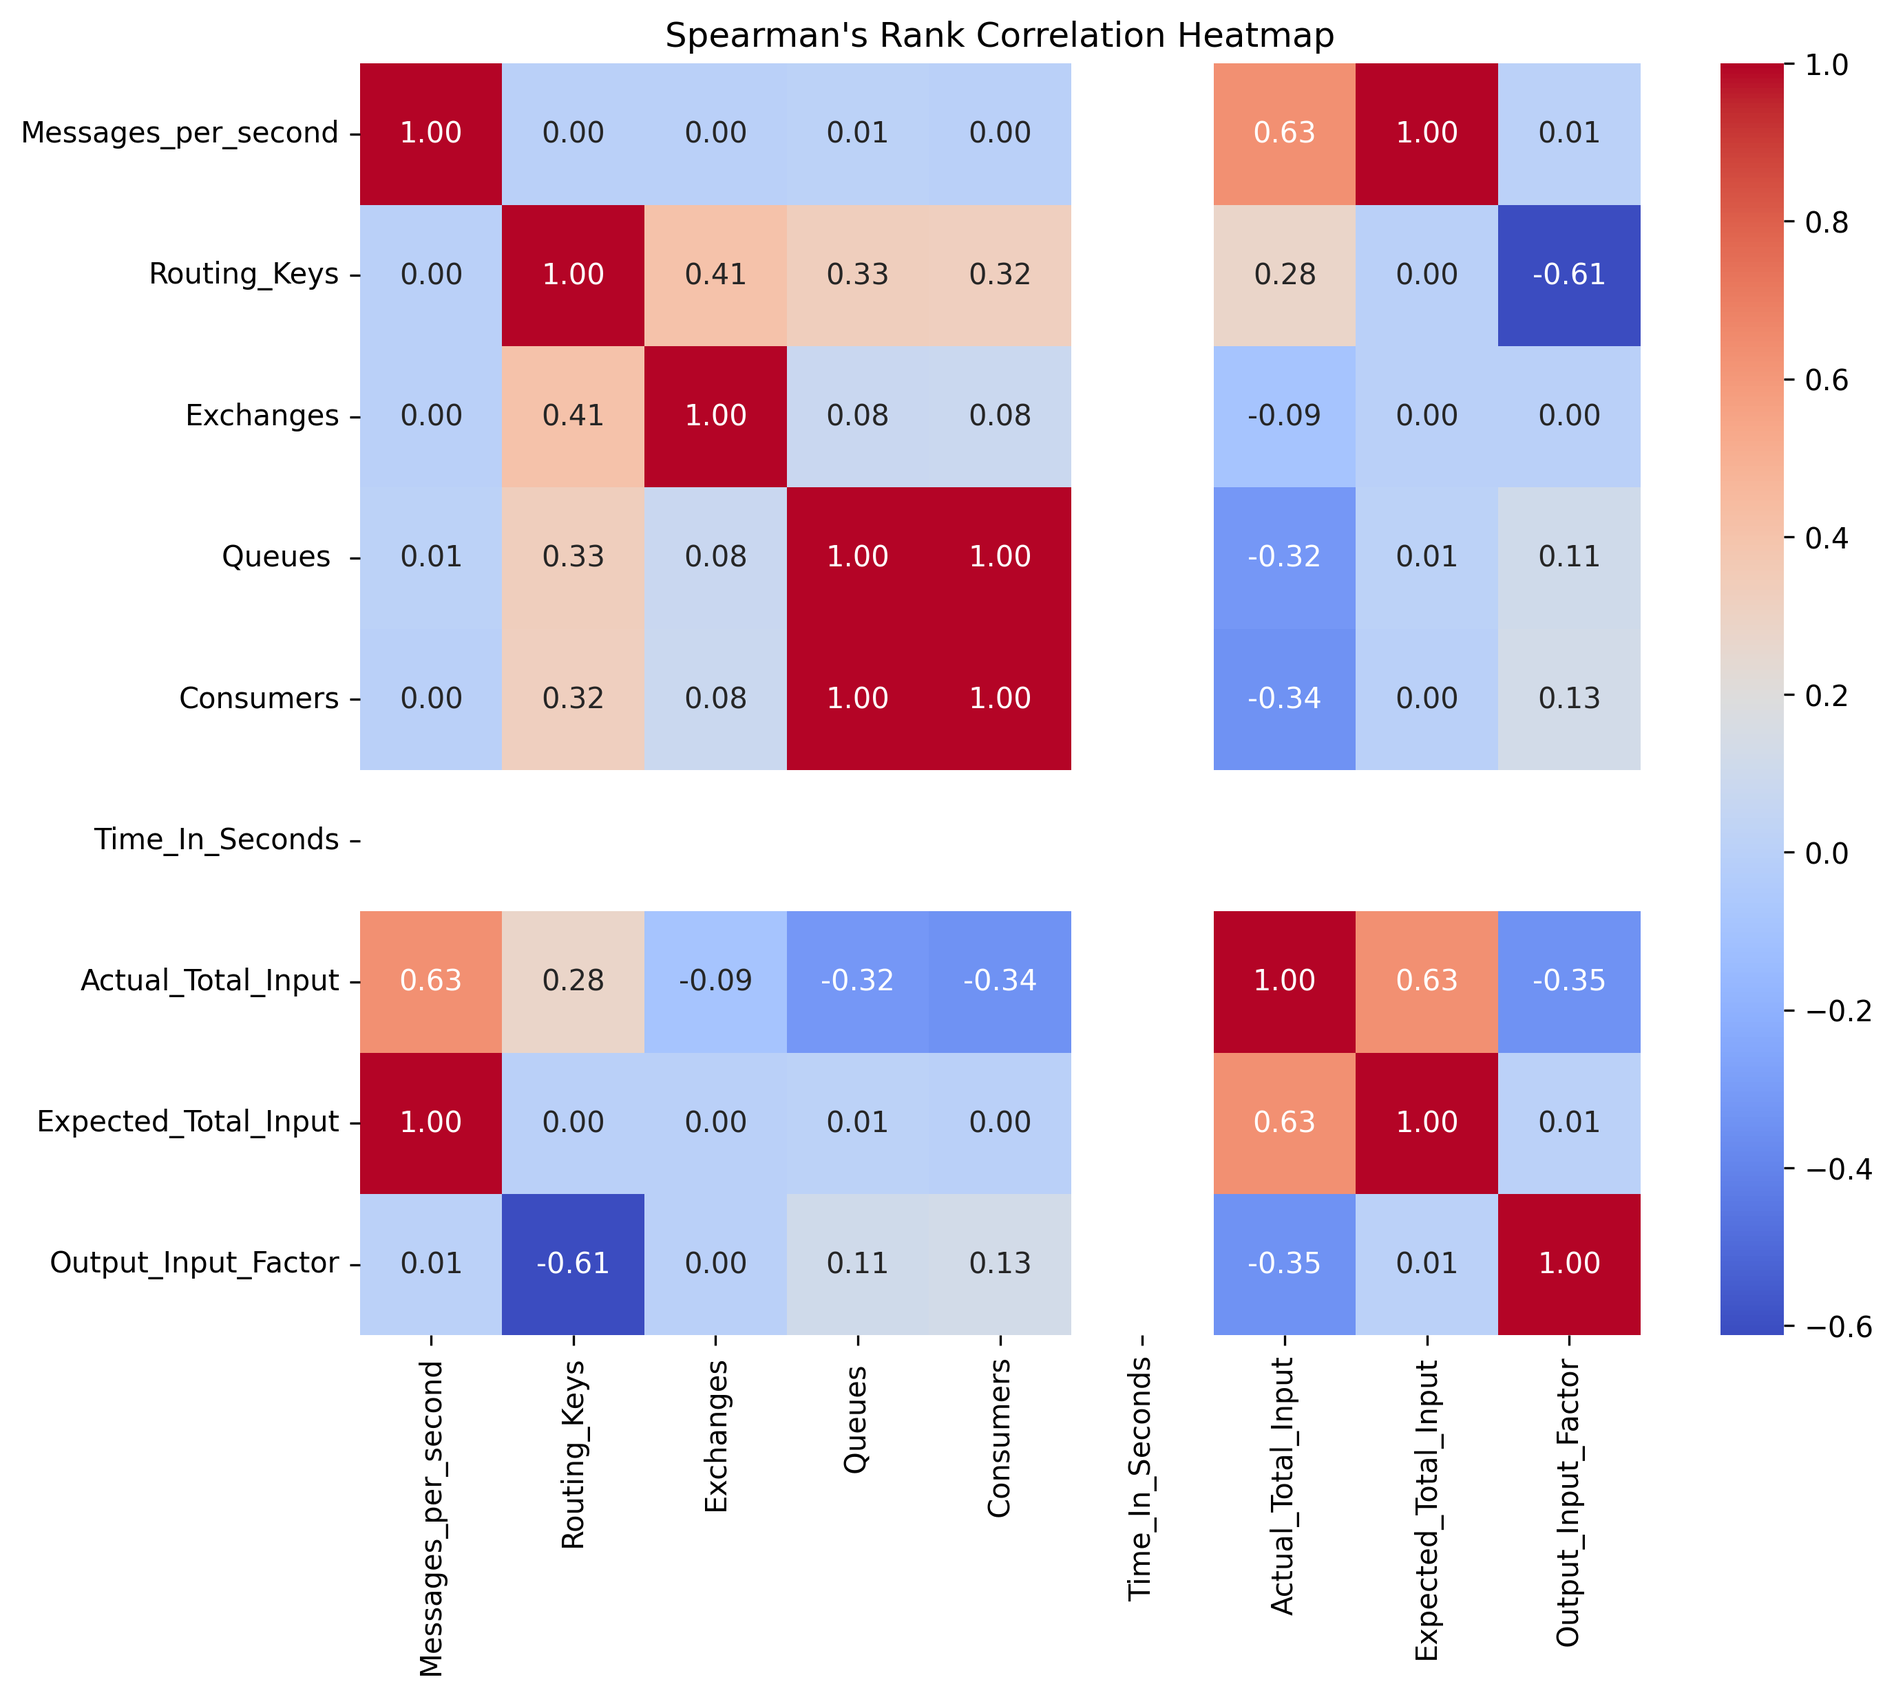
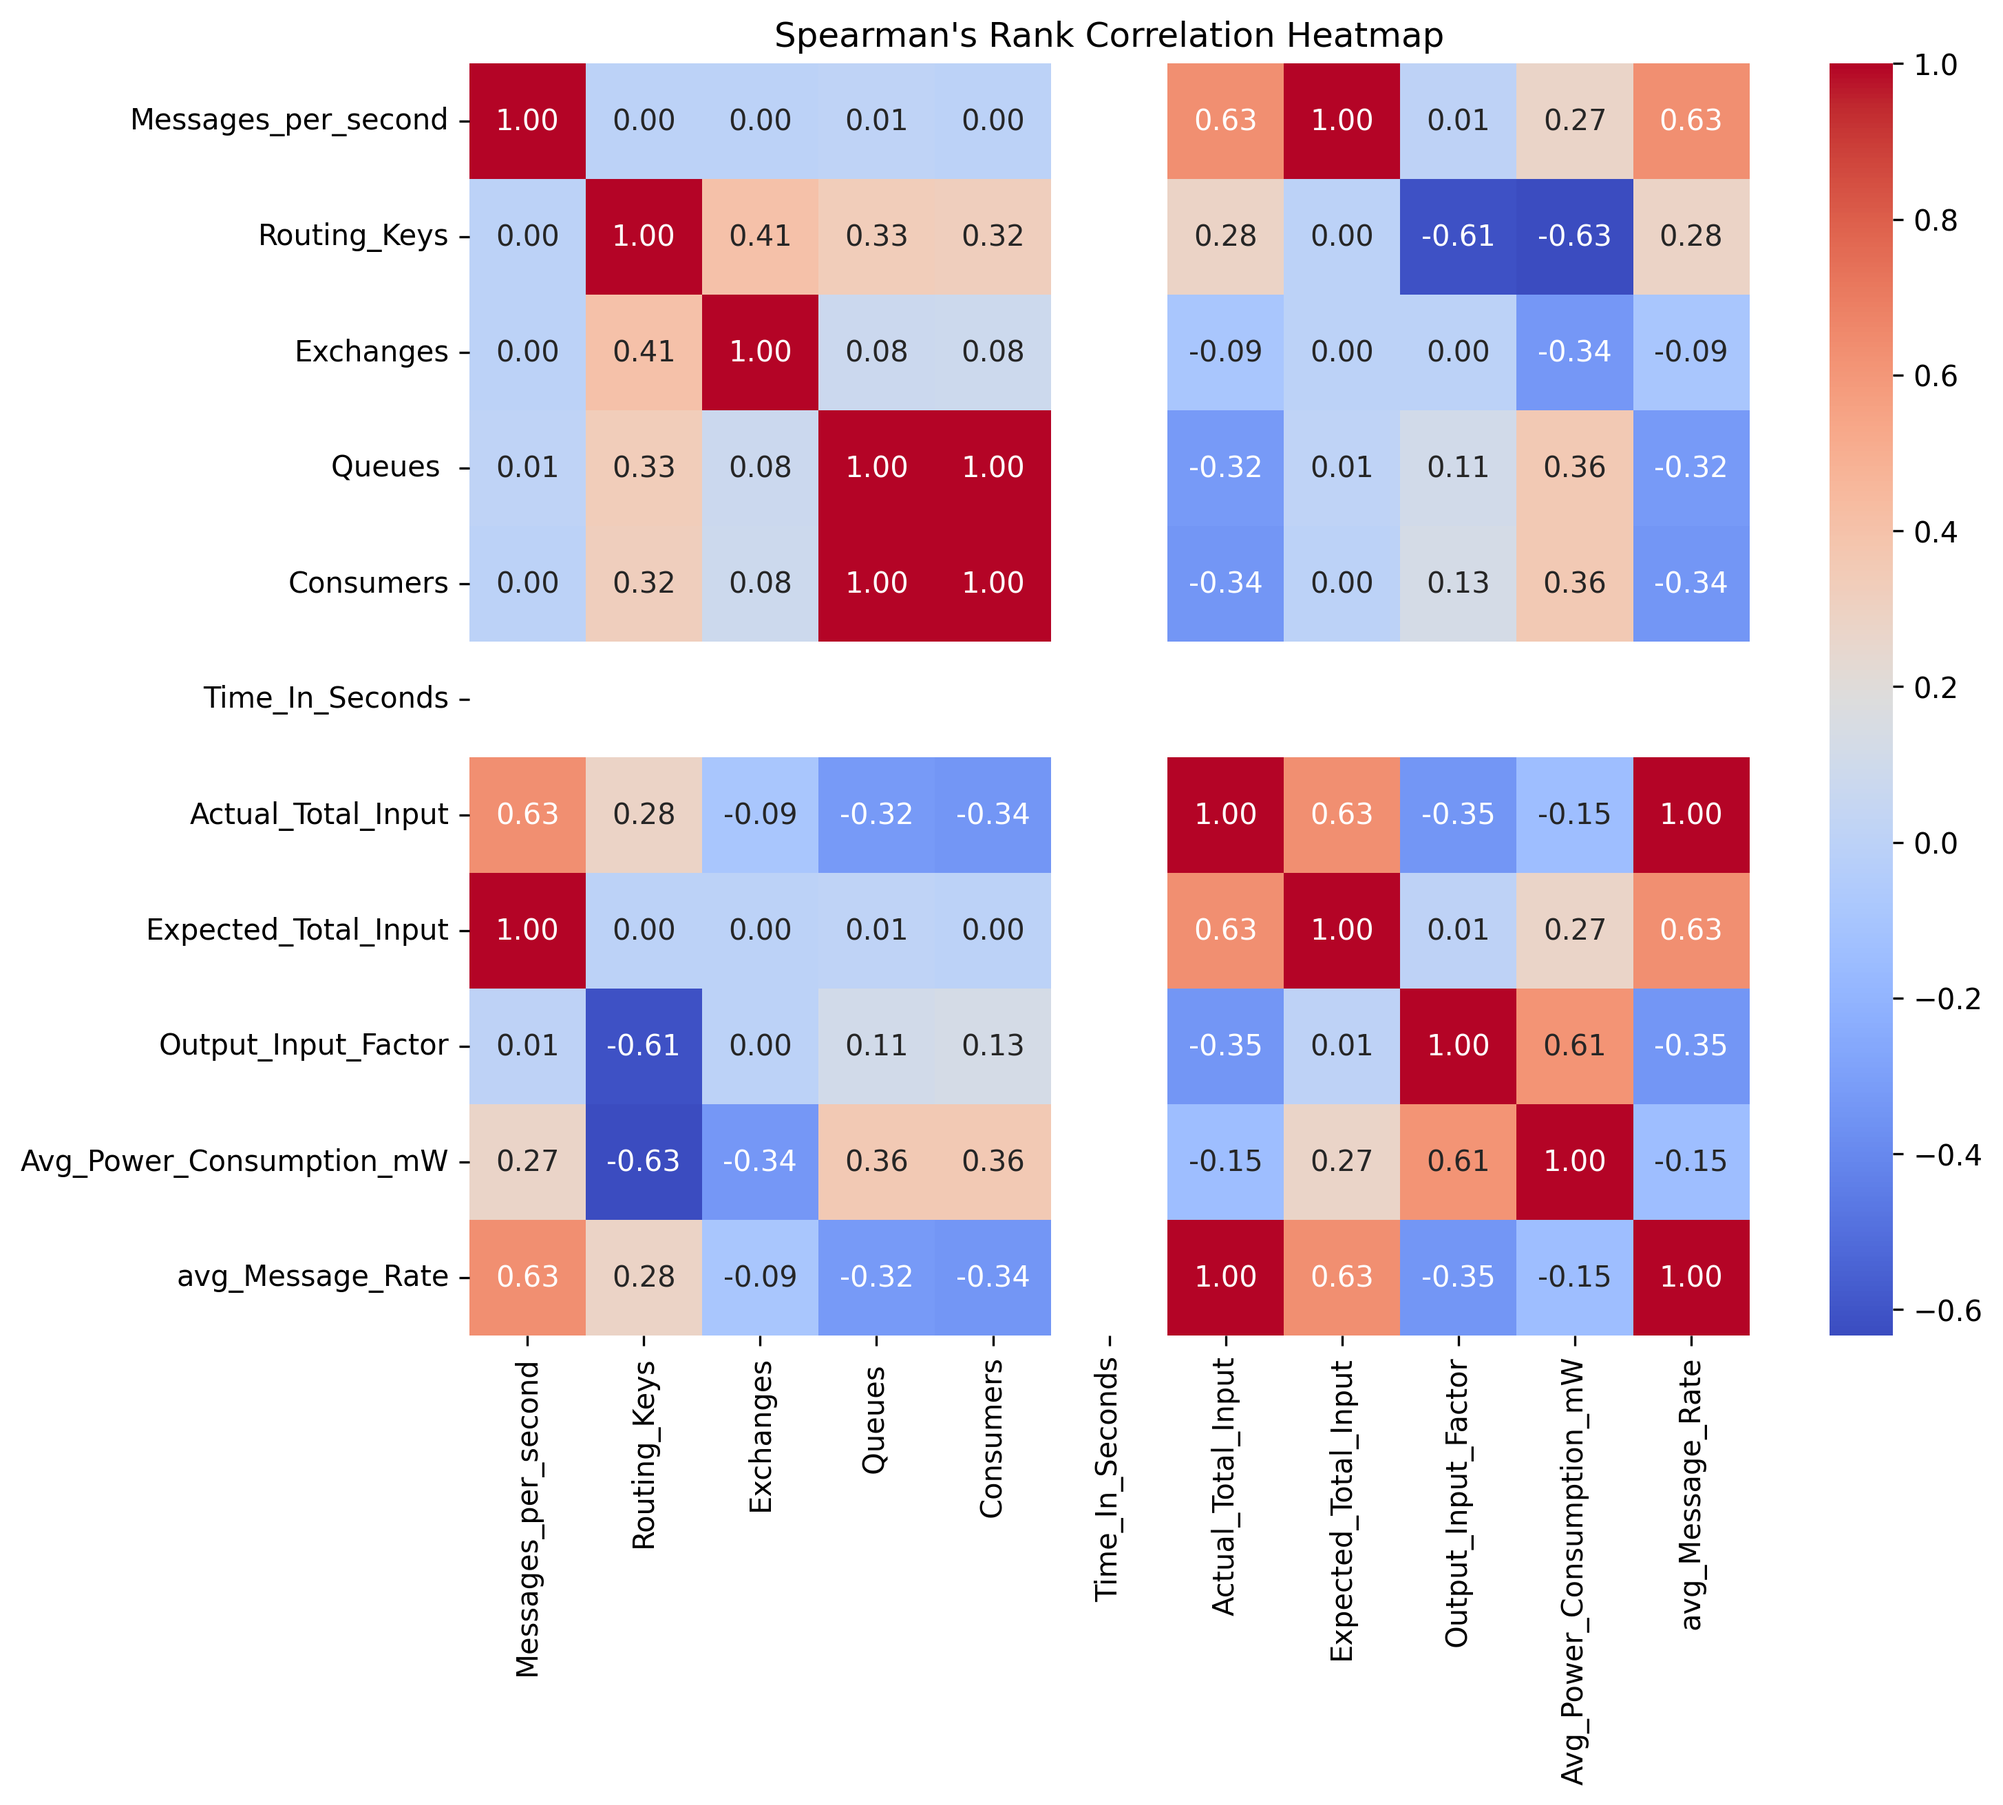
fix-pearson-spearmans-files

diff --git a/pearson.py b/pearson.py
@@ -7,19 +7,15 @@ import os
 file_path = 'data/Data.csv'
 data = pd.read_csv(file_path)
 
-# Extract relevant columns and clean column names
-data_subset = data[["Routing_Keys", "avg_Message_Rate", "Queues ", "Avg_Power_Consumption_mW"]].copy()
-data_subset.rename(columns={"Queues ": "Queues", "Avg_Power_Consumption_mW": "avg_Power_Consumption"}, inplace=True)
+columns_to_convert = ['Avg_Power_Consumption_mW', 'avg_Message_Rate']
+for col in columns_to_convert:
+    data[col] = data[col].str.replace(',', '.').astype(float)
 
-# Clean and convert columns to numeric types
-data_subset["avg_Message_Rate"] = data_subset["avg_Message_Rate"].replace(',', '.', regex=True).astype(float)
-data_subset["Routing_Keys"] = data_subset["Routing_Keys"].astype(int)
-data_subset["Queues"] = data_subset["Queues"].astype(int)
-data_subset["avg_Power_Consumption"] = data_subset["avg_Power_Consumption"].replace(',', '.', regex=True).astype(float)
 
+numeric_data = data.select_dtypes(include=['float64', 'int64'])
 
 # Calculate the Pearson correlation matrix
-pearson_correlation = data_subset.corr(method="pearson")
+pearson_correlation = numeric_data.corr(method="pearson")
 
 # Create the output directory if it doesn't exist
 output_dir = 'output/'

diff --git a/spearmans.py b/spearmans.py
@@ -6,13 +6,17 @@ import os
 # Load the dataset
 data = pd.read_csv('data/Data.csv')
 
-# Select only numeric columns
+columns_to_convert = ['Avg_Power_Consumption_mW', 'avg_Message_Rate']
+for col in columns_to_convert:
+    data[col] = data[col].str.replace(',', '.').astype(float)
+
+
 numeric_data = data.select_dtypes(include=['float64', 'int64'])
 
 # Calculate the Spearman's rank correlation coefficient matrix
 spearman_correlation = numeric_data.corr(method="spearman")
 
-# Create the output directory if it doesn't exist
+# Create the output directory
 output_dir = 'output/'
 os.makedirs(output_dir, exist_ok=True)
 
